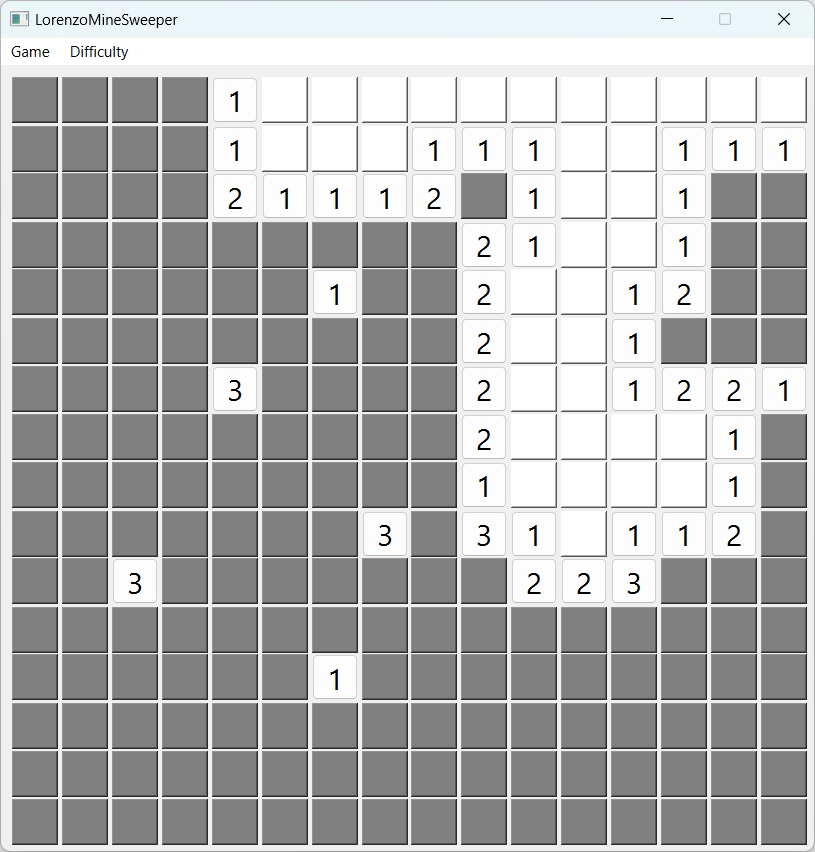
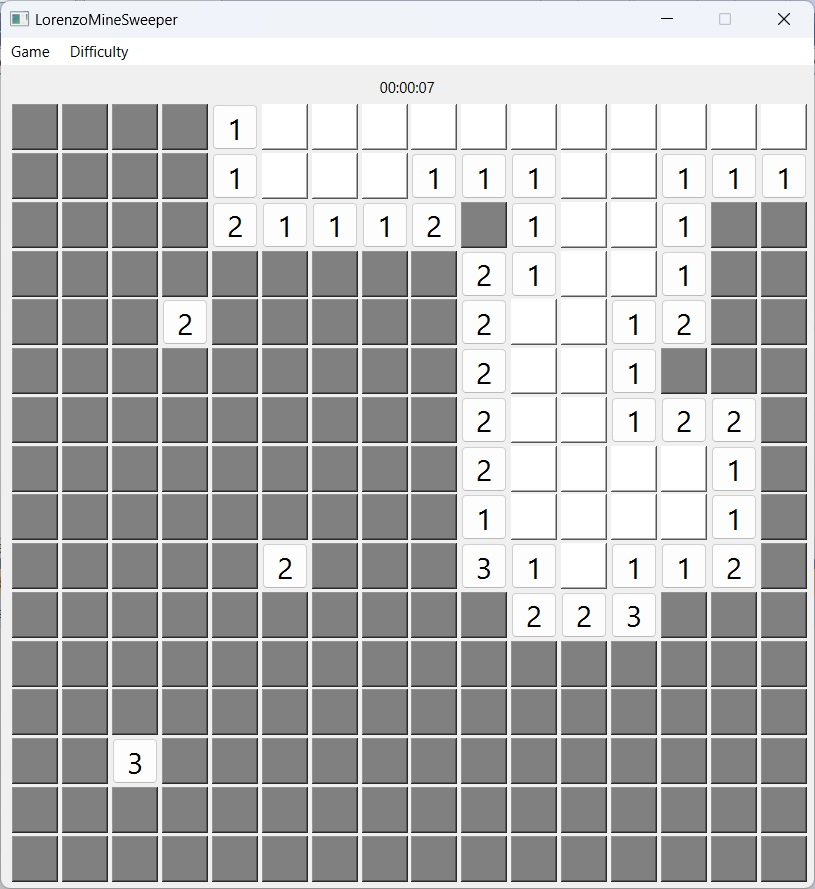
add timer

diff --git a/MyMainWindow.cpp b/MyMainWindow.cpp
@@ -4,8 +4,10 @@
 #include <QMessageBox>
 #include <QRandomGenerator>
 #include <set>
+#include <QTimer>
+#include <QHBoxLayout>
 
-MyMainWindow::MyMainWindow() {
+MyMainWindow::MyMainWindow() : timer(nullptr) {
     QMenuBar* menuBar = new QMenuBar;
 
     QMenu* gameMenu = new QMenu("Game", this);
@@ -33,14 +35,32 @@ MyMainWindow::MyMainWindow() {
     this->setMenuBar(menuBar);
 
     minefieldWidget = new QWidget;
-    layout = new QGridLayout(minefieldWidget);
+    QVBoxLayout* mainLayout = new QVBoxLayout(minefieldWidget);
+
+    QHBoxLayout* timerLayout = new QHBoxLayout;
+    timerLabel = new QLabel("00:00:00");
+    timerLayout->addStretch();
+    timerLayout->addWidget(timerLabel);
+    timerLayout->addStretch();
+    mainLayout->addLayout(timerLayout);
+
+    layout = new QGridLayout;
+    mainLayout->addLayout(layout);
 
     setCentralWidget(minefieldWidget);
 
-    setFixedSize(650, 650);
+    setFixedSize(650, 680);
 }
 
 void MyMainWindow::newGame() {
+    // Reset timer
+    if (timer != nullptr) {
+        delete timer;
+        timer = nullptr;
+    }
+    timeElapsed = QTime(0, 0, 0);
+    updateTimerLabel();
+
     revealedTiles = 0;
 
     // Resize each time when current size does not match last size
@@ -83,7 +103,7 @@ void MyMainWindow::newGame() {
             minefield[i][j] = new MinefieldButton(i, j);
             minefield[i][j]->setStyleSheet("background-color: gray");
             minefield[i][j]->setFixedSize(600 / fieldSize, 600 / fieldSize);
-            layout->addWidget(minefield[i][j], i, j);
+            layout->addWidget(minefield[i][j], i + 1, j);
             if (!minefield[i][j]->isEnabled()) {
                 minefield[i][j]->setEnabled(true);
             }
@@ -102,12 +122,16 @@ void MyMainWindow::newGame() {
     for (const auto& mine : mines) {
         minefieldData[mine.first][mine.second] = 1;
     }
+
+    // Start the timer
+    startTimer();
 }
 
 void MyMainWindow::handleButtonClick(int row, int col) {
     if (minefieldData[row][col] == 1) { // Fallo
         minefield[row][col]->setStyleSheet("background-color: red");
         QMessageBox::information(this, "Game Over", "You've hit a mine!");
+        stopTimer();
         newGame();
     }
     else {
@@ -116,6 +140,7 @@ void MyMainWindow::handleButtonClick(int row, int col) {
         int remainingTiles = 0;
         if (revealedTiles == fieldSize * fieldSize - mineCount) {
             QMessageBox::information(this, "Congratulations", "You've won the game!");
+            stopTimer();
             newGame();
         }
     }
@@ -180,4 +205,28 @@ void MyMainWindow::setDifficulty(Difficulty difficulty) {
         }
     }
     newGame();
+}
+
+void MyMainWindow::startTimer() {
+    timer = new QTimer(this);
+    connect(timer, &QTimer::timeout, this, &MyMainWindow::updateTimeElapsed);
+    timer->start(1000);  // Update every second
+}
+
+void MyMainWindow::stopTimer() {
+    if (timer != nullptr) {
+        timer->stop();
+        delete timer;
+        timer = nullptr;
+    }
+}
+
+void MyMainWindow::updateTimeElapsed() {
+    timeElapsed = timeElapsed.addSecs(1);
+    updateTimerLabel();
+}
+
+void MyMainWindow::updateTimerLabel() {
+    QString timeText = timeElapsed.toString("hh:mm:ss");
+    timerLabel->setText(timeText);
 }

diff --git a/MyMainWindow.h b/MyMainWindow.h
@@ -2,7 +2,10 @@
 
 #include "MinefieldButton.h"
 #include <QMainWindow>
+#include <QLabel>
 #include <QGridLayout>
+#include <QTime>
+#include <QTimer>
 
 class MyMainWindow : public QMainWindow {
     Q_OBJECT
@@ -14,11 +17,19 @@ private:
 
     QWidget* minefieldWidget;
     QGridLayout* layout;
+    QLabel* timerLabel;
+    QTime timeElapsed;
+    QTimer* timer;
 
     int lastFieldSize = 0;
     int fieldSize = 0;
     int mineCount = 0;
     int revealedTiles = 0;
+
+    void startTimer();
+    void stopTimer();
+    void updateTimeElapsed();
+    void updateTimerLabel();
 
 public:
     MyMainWindow();

diff --git a/MyWizardDialog.h b/MyWizardDialog.h
@@ -2,12 +2,12 @@
 
 #include "MinefieldButton.h"
 #include <QDialog>
+#include <QCloseEvent>
 
 class MyWizardDialog : public QDialog {
     Q_OBJECT
 public:
     MyWizardDialog(QWidget* parent = nullptr);
-
 signals:
     void difficultySelected(Difficulty level);
 };

diff --git a/README.md b/README.md
@@ -12,7 +12,7 @@ This is a cross-platform Minesweeper game based of the C++ version and developed
 
 ## Planned Features
 
-- Implementation of game timing and scoring functionality.
+- Implementation of scoring functionality.
 
 ## Installation and Running
 
